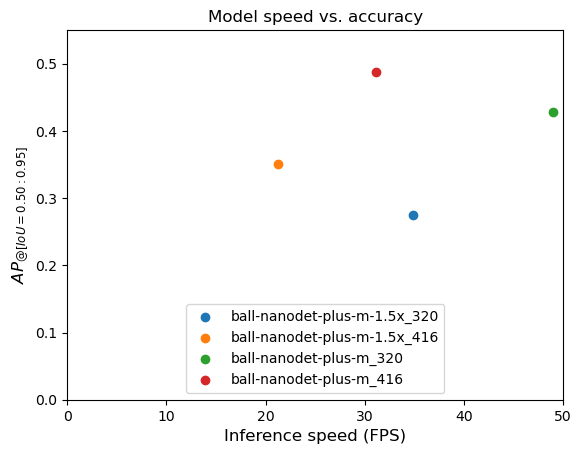
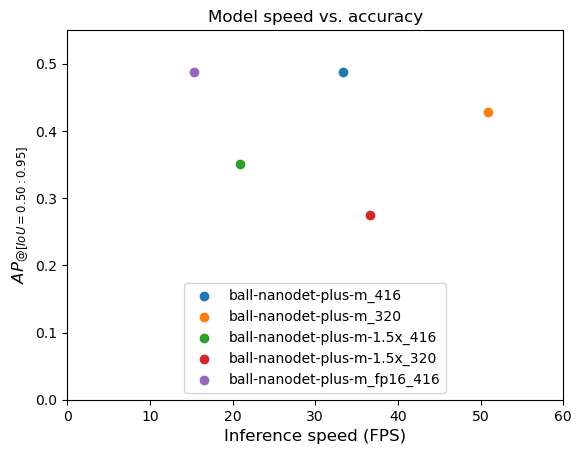
Add model quantization

diff --git a/researchreport.tex b/researchreport.tex
@@ -830,7 +830,7 @@ During inference, $minNeighbors$ provides a measure of confidence to retain the 
 
 \begin{figure}[h!]
 \begin{center}
-\includegraphics[width=10cm]{images/vj_tune.png}
+\includegraphics[width=11cm]{images/vj_tune.png}
 \caption{AP vs $minNeigbours$}
 \label{fig:vjneighbors}
 \end{center}
@@ -930,7 +930,9 @@ The different NanoDet variations are evaluated for their inference speeds and th
 
 The scores are the highest of any of the considered models, without even performing a search for ideal hyper parameters. For this reason, the additional efforts of a search is not performed (beyond the included basic architecture variations) as the results are satisfactory and sufficient to prove the respective hypothesis. 
 
-It is seen in general, that the higher resolution architectures (416 vs. 320) perform inference at a higher accuracy, however, at a cost of inference speed. The $1.5\times$ models which have a deeper backbone also perform inference slower, however, in this case they do not perform at a higher inference quality. This may be due to not searching for optimum parameters - since models of greater complexity have a greater tendancy to overfit and the chosen parameters here are optimised for a different dataset. The NanoDet-plus-m\_416 instance is chosen as it provides the maximum performance at a speed that provides real-time inference.
+It is seen in general, that the higher resolution architectures (416 vs. 320) perform inference at a higher accuracy, however, at a cost of inference speed. The $1.5\times$ models which have a deeper backbone also perform inference slower, however, in this case they do not perform at a higher inference quality. This may be due to not applying optimum parameters - since models of greater complexity have a greater tendancy to overfit and the chosen parameters here are optimised for a different dataset. The NanoDet-plus-m\_416 instance is chosen as it provides the maximum performance at a speed that provides real-time inference.
+
+The chosen model is quantized from a float32 to a float16 representation - which gives a resulting model size reduction from 5.5mb to 3.2mb. A negligible loss of inference quality is realized but a significant reduction in speed has occurred. The reason for this is that float32 computation is more popular as most models are implemented to maximise accuracy and therefore the operations in this representation are better optimized for the used hardware. Since the model is already of acceptable size, the quantized model is not utilized and further quantization is not investigated.
 
 \newpage
 \section{Evaluation of detection}
@@ -960,18 +962,6 @@ Relatively, the VJ detector performs the worst of the detectors across the data.
 The YOLOv4 Tiny model shows significant improvements in performance and surpasses the VJ detector in all categories in terms of inference quality. However, a real-time implementation was not able to be . This result corresponds to the results seen in the related works, where it was found that the YOLOv4 Tiny model does perform well, however, not quite in real-time.
 
 The Nanodet model out performs all other architectures. Although a margin training effort is applied, the model achieves the highest quality inference at realtime speeds. This is true across each dataset characteristic and by a significant margin. Further, for the easiest examples, NanoDet scores a near perfect result which is impressive. This model is also smaller than that of YOLOv4 by a significant margin, which means that it has a lower footprint on limited capacity machines and therefore allows the memory to be used for other tasks, which likely leads to improving the overall performance of the robotic platform as a whole. 
-
-\section{Optimization}
-
-Quantization can potentially reduce the memory footprint of a model. The effect of quantization on the inference performance is now evaluated.
-
-\begin{figure}[h!]
-\begin{center}
-\includegraphics[width=10cm]{images/nanodet_compare.png}
-\caption{Effect of model quantization}
-\label{fig:evalquant}
-\end{center}
-\end{figure}
 
 %%%%%%%%%%%%%%%%%%%%%%%%%%%%%%%%%%%%%%%%%%%%%%%%%%%%%%%%%%%%%%%%%%%%%%%%%%%%%%%%%%%%%%%%%%%%%%%%
 \chapter{Object tracking investigation}
